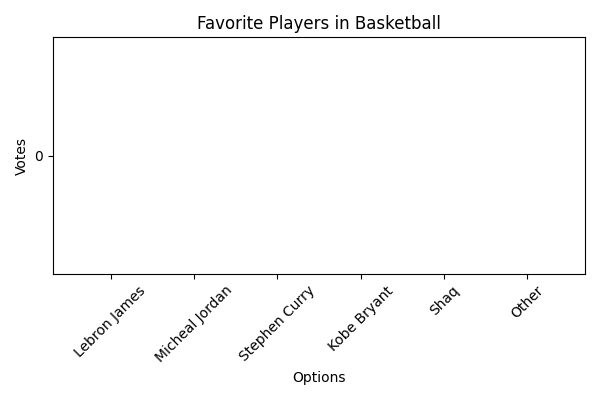
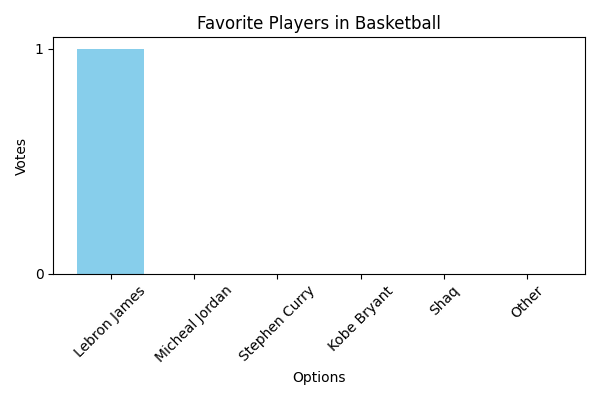
fixed path

diff --git a/players_votes.py b/players_votes.py
@@ -1,1 +1,1 @@
-votes_players = {'Basketball': {'Lebron James': 0, 'Micheal Jordan': 0, 'Stephen Curry': 0, 'Kobe Bryant': 0, 'Shaq': 0, 'Other': 0}, 'Soccer': {'Saket': 0, 'Messi': 0, 'Ronaldo': 0, 'Neymar': 0, 'Mbappe': 0, 'Yamal': 0, 'Saka': 0, 'Other': 0}, 'Football': {'Tom Brady': 0, 'Jerry Rice': 0, 'Justin Jefferson Jr': 0, 'Tyreek Hill': 0, 'Deebo Samuel': 0, 'Other': 0}, 'Cricket': {'Yashasvi Jaiswal': 0, 'Heinrich Klaasen': 0, 'Rachin Ravindra': 0, 'Jasprit Bumrah': 1, 'Ravindra Jadeja': 0, 'Other': 0}}
+votes_players = {'Basketball': {'Lebron James': 1, 'Micheal Jordan': 0, 'Stephen Curry': 0, 'Kobe Bryant': 0, 'Shaq': 0, 'Other': 0}, 'Soccer': {'Saket': 0, 'Messi': 1, 'Ronaldo': 0, 'Neymar': 0, 'Mbappe': 0, 'Yamal': 0, 'Saka': 0, 'Other': 0}, 'Football': {'Tom Brady': 0, 'Jerry Rice': 0, 'Justin Jefferson Jr': 0, 'Tyreek Hill': 0, 'Deebo Samuel': 0, 'Other': 0}, 'Cricket': {'Yashasvi Jaiswal': 0, 'Heinrich Klaasen': 0, 'Rachin Ravindra': 0, 'Jasprit Bumrah': 1, 'Ravindra Jadeja': 0, 'Other': 0}}

diff --git a/app.py b/app.py
@@ -59,10 +59,10 @@ def poll_player(sport):
 
 @app.route("/results")
 def results():
-    generate_chart(votes_sports, "Favorite Sport", "/home/Saket11/simple polling app/static/sports_chart.png")
+    generate_chart(votes_sports, "Favorite Sport", "static/sports_chart.png")
     for sport in votes_players:
         generate_player_chart(sport)
-    return render_template("results.html", sports_chart="/home/anilk/simple polling app/static/sports_chart.png", player_charts=[f"static/{sport}_player_chart.png" for sport in votes_players])
+    return render_template("results.html", sports_chart="static/sports_chart.png", player_charts=[f"static/{sport}_player_chart.png" for sport in votes_players])
 
 if __name__ == "__main__":
     app.run(debug=True)

diff --git a/sports_votes.py b/sports_votes.py
@@ -1,1 +1,1 @@
-votes_sports = {'Basketball': 0, 'Soccer': 0, 'Football': 0, 'Cricket': 1}
+votes_sports = {'Basketball': 1, 'Soccer': 1, 'Football': 0, 'Cricket': 1}
